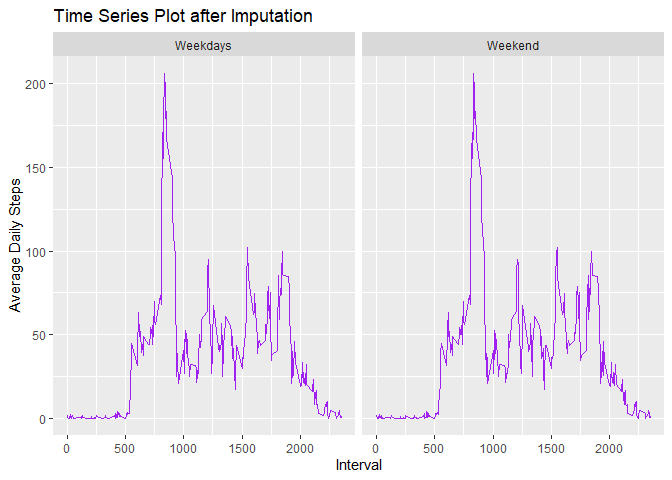
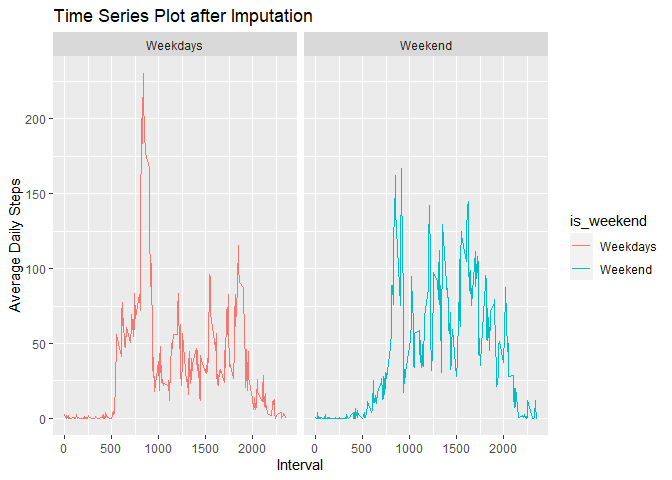
make some correction for weekdays versus weekends

diff --git a/PA1_template.html b/PA1_template.html
@@ -515,15 +515,15 @@ ggplot(data = histo_imputed) +
                              &quot;Weekend&quot;, &quot;Weekdays&quot;))
 week_days$is_weekend &lt;- as.factor(week_days$is_weekend)
 dat4 &lt;- week_days %&gt;%
-  group_by(interval) %&gt;%
+  group_by(interval, is_weekend) %&gt;%
   mutate(interval_mean = mean(steps))
 
-ggplot(dat4, aes(interval, interval_mean)) +
-  geom_line(color = &quot;Purple&quot;) +
+ggplot(dat4, aes(interval, interval_mean, color = is_weekend)) +
+  geom_line() +
         labs(x = &quot;Interval&quot;, y = &quot;Average Daily Steps&quot;) +
         ggtitle(&quot;Time Series Plot after Imputation&quot;) +
   facet_wrap(. ~ is_weekend)</code></pre>
[2 lines of base64/hex data omitted]
 </div>
 
 

diff --git a/PA1_template.md b/PA1_template.md
@@ -277,14 +277,15 @@ week_days <- dat3 %>%
                              "Weekend", "Weekdays"))
 week_days$is_weekend <- as.factor(week_days$is_weekend)
 dat4 <- week_days %>%
-  group_by(interval) %>%
+  group_by(interval, is_weekend) %>%
   mutate(interval_mean = mean(steps))
 
-ggplot(dat4, aes(interval, interval_mean)) +
-  geom_line(color = "Purple") +
+ggplot(dat4, aes(interval, interval_mean, color = is_weekend)) +
+  geom_line() +
         labs(x = "Interval", y = "Average Daily Steps") +
         ggtitle("Time Series Plot after Imputation") +
   facet_wrap(. ~ is_weekend)
 ```
 
 ![](PA1_template_files/figure-html/weekdays-1.png)<!-- -->
+
